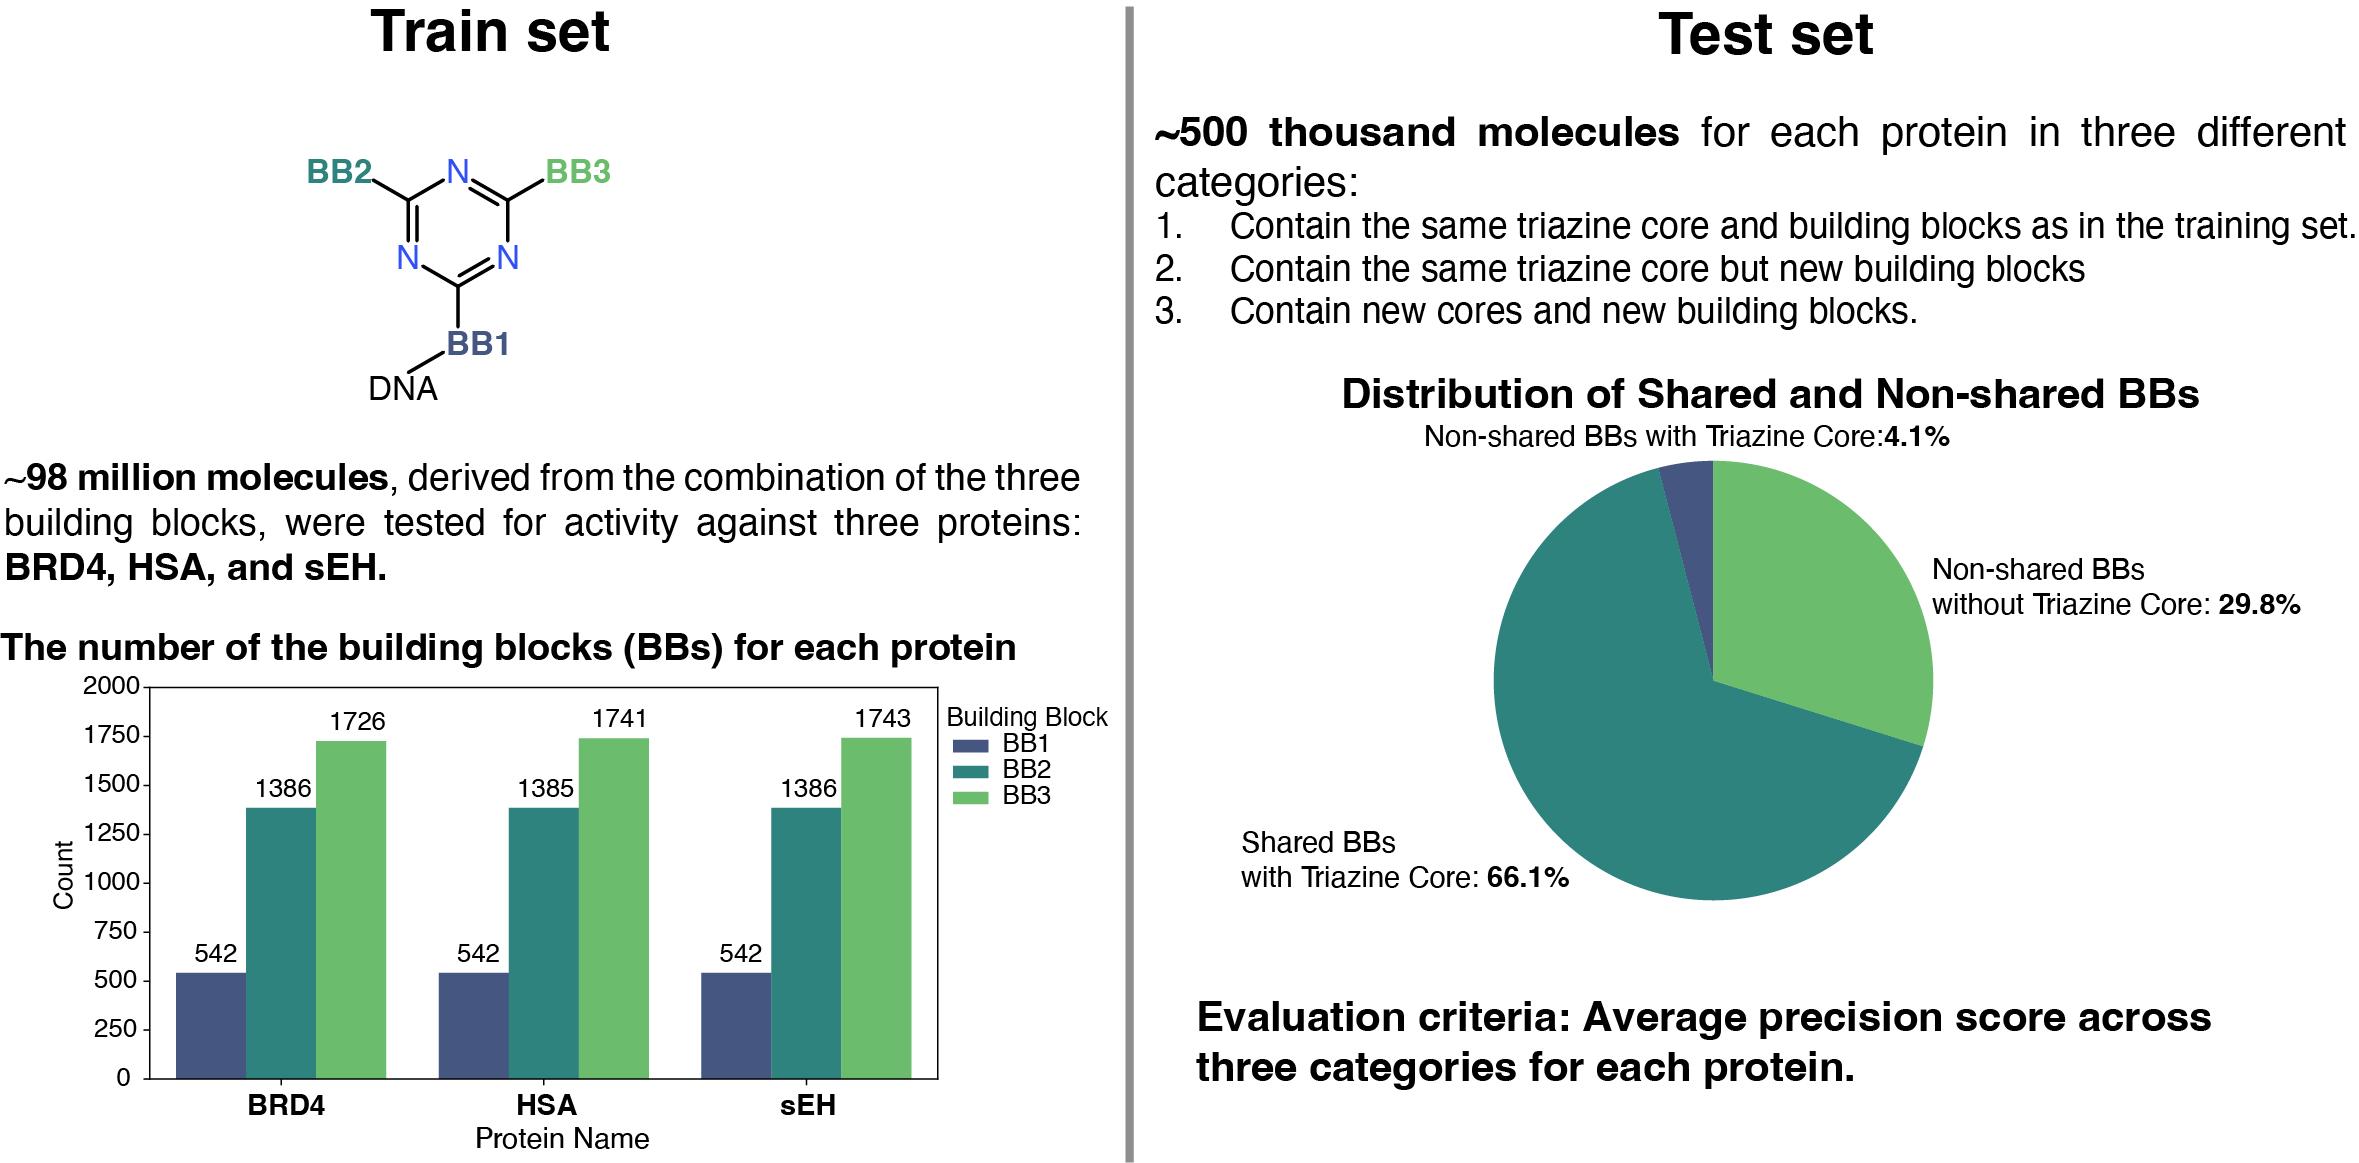
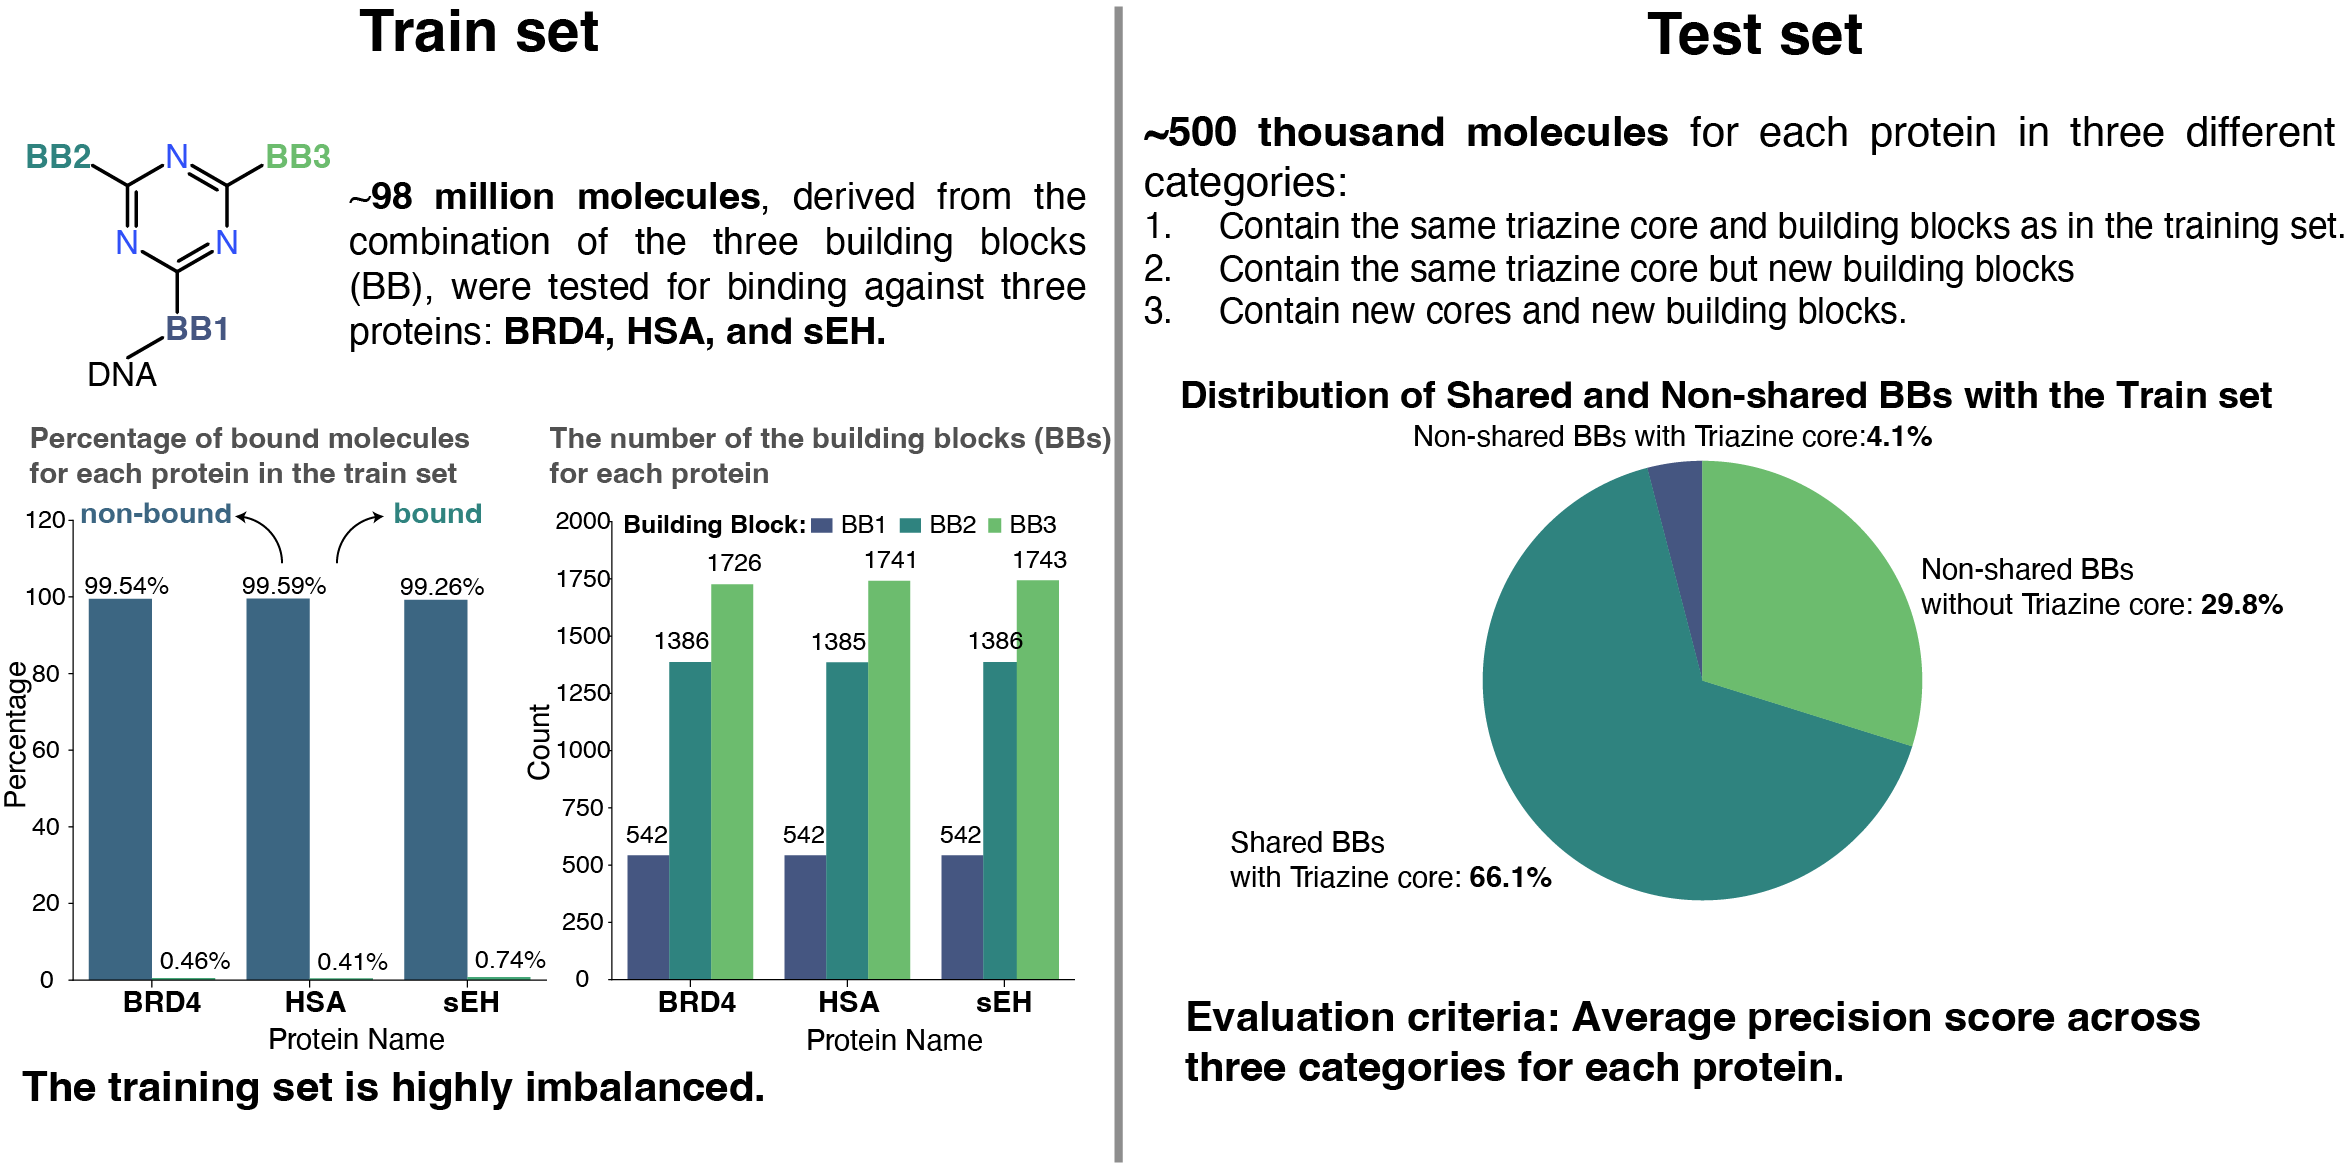
update

diff --git a/README.md b/README.md
@@ -7,3 +7,34 @@ Predict small molecule-protein interactions using the Big Encoded Library for Ch
 
 ## **Problem definition and exploratory data analysis**
 ![Alt text](EDA.png)
+
+
+## Installation
+### General
+```
+conda create --name BELKA python=3.10
+conda activate BELKA
+bash install.sh
+```
+
+## Data
+* Main data: `kaggle competitions download -c leash-BELKA -p`
+
+
+## Model
+### Combining XGBoost model and 1D CNN model 
+* XGBoost model: 
+- XGboost/scr/train_XGboost_sEH.py
+- XGboost/scr/train_XGboost_BRD4.py
+- XGboost/scr/train_XGboost_HSA.py
+
+* 1D CNN
+- 1D_CNN/scr/1D_CNN_train.py
+
+
+
+## Reuslt
+### 1D CNN
+![Alt text](.png)
+
+
